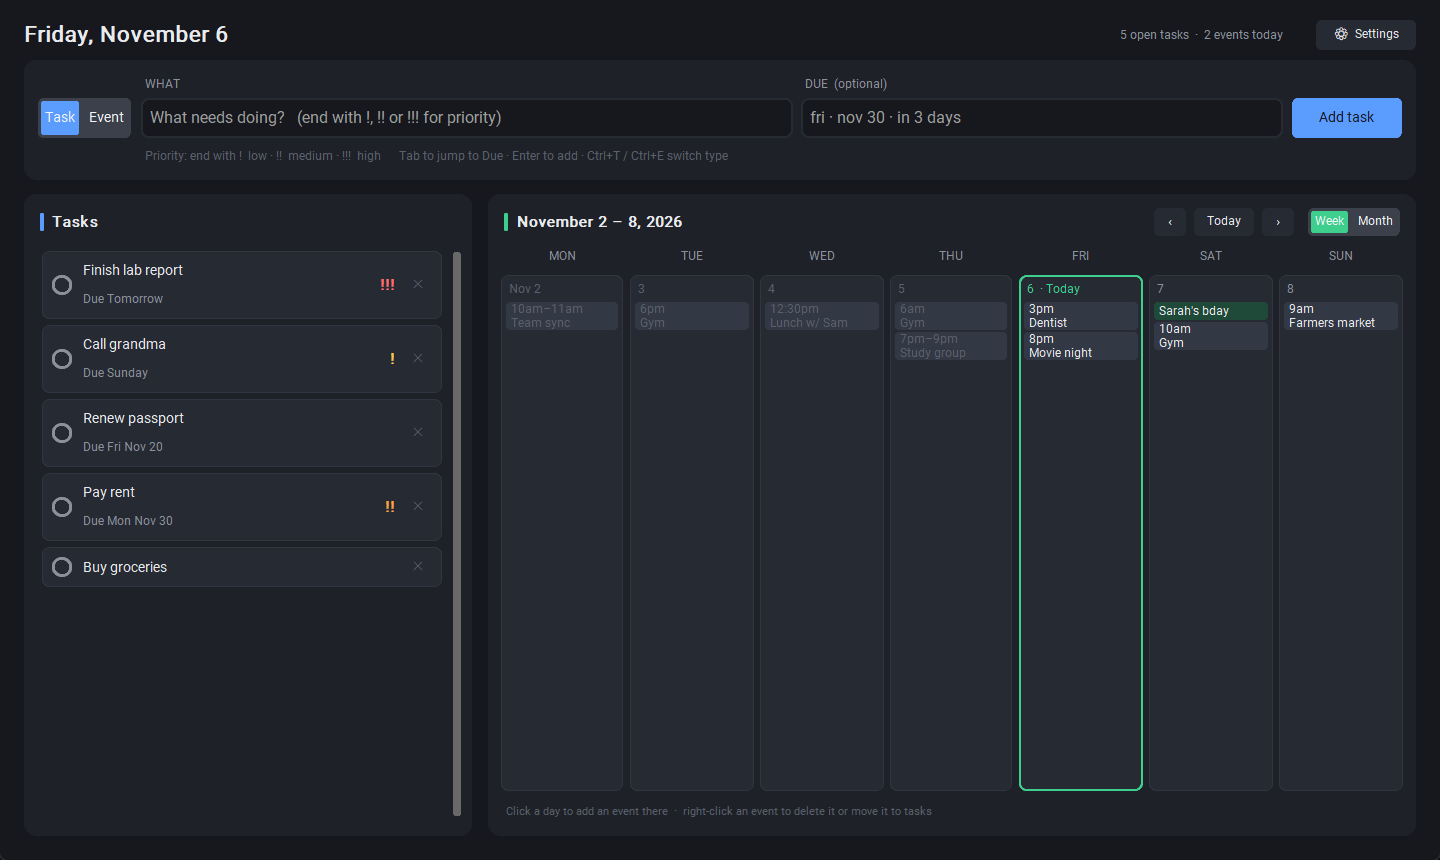
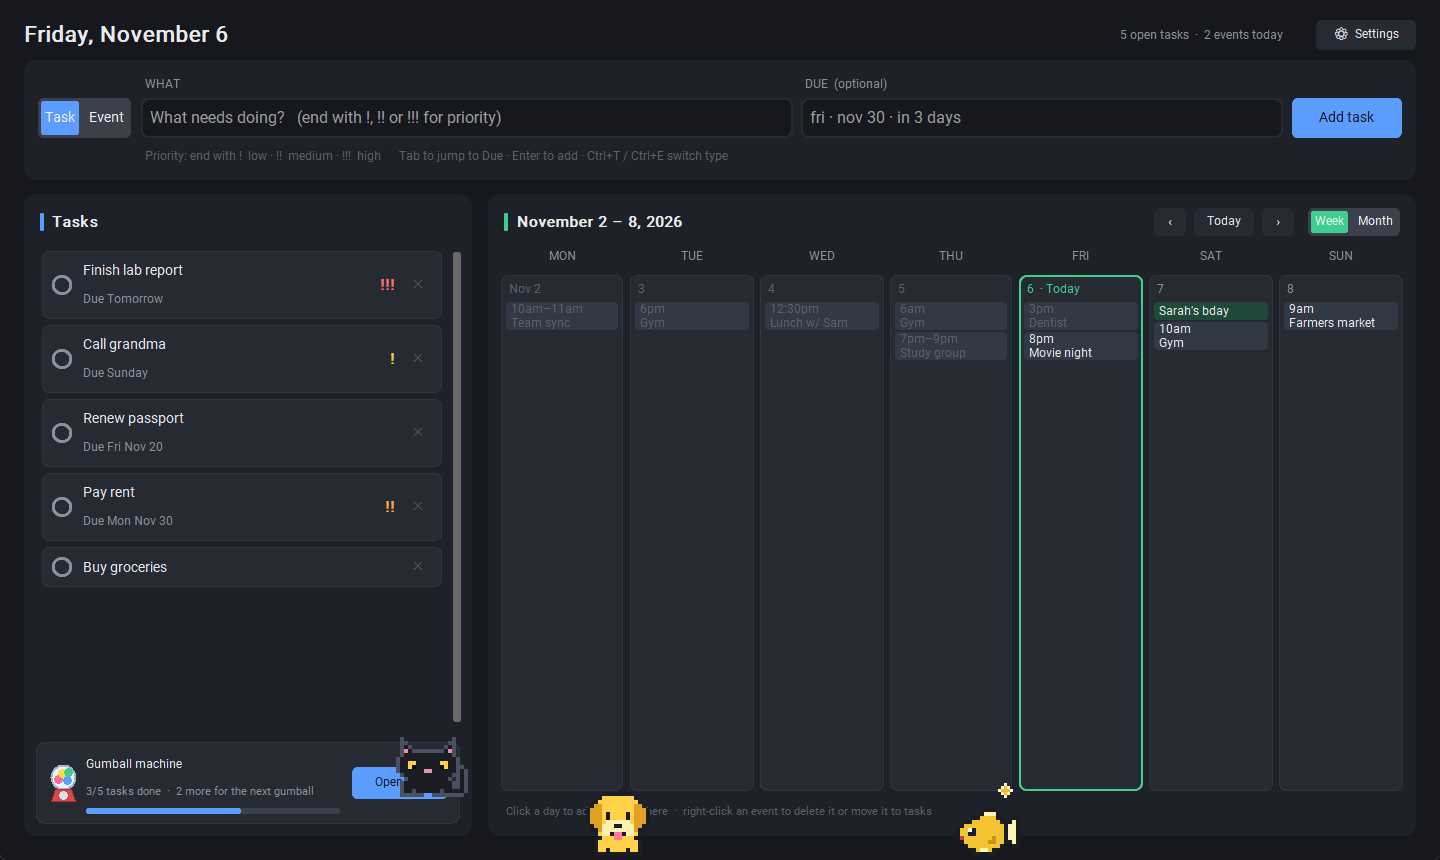
Add a gumball buddies section to the homepage
Explains how finished tasks earn gumballs, shows the machine, a reveal
and the collection, lists all 10 sprites with rarities and odds, and
illustrates star merging and trading up. Also refreshes the main
screenshot (now with buddies), adds a feature card and a nav link.

diff --git a/index.html b/index.html
@@ -4,7 +4,7 @@
   <meta charset="utf-8">
   <meta name="viewport" content="width=device-width, initial-scale=1">
   <title>OnTrack: Tasks & Calendar</title>
-  <meta name="description" content="OnTrack is a free Windows app for tasks and events. Type in plain English, see your week at a glance, and optionally sync events with Google Calendar.">
+  <meta name="description" content="OnTrack is a free Windows app for tasks and events. Type in plain English, see your week at a glance, and optionally sync events with Google Calendar. Finished tasks earn gumballs with collectible pixel buddies.">
   <link rel="icon" href="assets/favicon.png">
   <link rel="stylesheet" href="style.css">
 </head>
@@ -14,6 +14,7 @@
       <a class="brand" href="./"><img src="assets/icon-120.png" alt="">OnTrack</a>
       <nav>
         <a href="#features">Features</a>
+        <a href="#gumballs">Gumballs</a>
         <a href="#google">Google Calendar</a>
         <a href="privacy.html">Privacy</a>
       </nav>
@@ -31,7 +32,7 @@
       </section>
 
       <img class="shot" src="assets/screenshot.png" width="1440" height="860"
-           alt="OnTrack showing a task list on the left and a weekly calendar of events on the right">
+           alt="OnTrack showing a task list on the left, a weekly calendar on the right, and pixel buddies hopping along the bottom">
 
       <section id="features">
         <h2>What it does</h2>
@@ -57,10 +58,46 @@
             <p>Everything is saved in a file on your computer. There's no OnTrack account and no OnTrack server.</p>
           </div>
           <div class="card">
+            <h3>Gumball buddies</h3>
+            <p>Every 5 finished tasks earns a gumball with a collectible pixel pet inside. Buddies hop around your window while you work.</p>
+          </div>
+          <div class="card">
             <h3>Themes</h3>
             <p>Dark, Warm or Light, plus import and export of standard .ics calendar files.</p>
           </div>
         </div>
+      </section>
+
+      <section id="gumballs">
+        <h2>Finish tasks, earn gumballs</h2>
+        <p class="lead">Every 5 tasks you check off earns a gumball. Grab the crank, give it a turn, and out pops a pixel buddy that hops along the bottom of your OnTrack window. Click a buddy and it jumps with a little heart. Your first gumball is free.</p>
+        <div class="gb-shots">
+          <figure><a href="assets/gb-machine.png"><img src="assets/gb-machine.png" width="560" height="700" alt="The gumball machine, with a crank to turn"></a><figcaption>Turn the crank</figcaption></figure>
+          <figure><a href="assets/gb-reveal.png"><img src="assets/gb-reveal.png" width="560" height="700" alt="A new Epic Axolotl revealed from a gumball"></a><figcaption>See who's inside</figcaption></figure>
+          <figure><a href="assets/gb-collection.png"><img src="assets/gb-collection.png" width="560" height="700" alt="The collection: 10 sprites with rarities and stars"></a><figcaption>Fill your collection</figcaption></figure>
+        </div>
+
+        <h3>Collect all 10</h3>
+        <ul class="roster">
+          <li class="sprite basic"><img class="px" src="assets/sprites/frog-1.png" width="64" height="52" alt="Frog"><b>Frog</b><span>Basic</span></li>
+          <li class="sprite basic"><img class="px" src="assets/sprites/duck-1.png" width="64" height="60" alt="Duck"><b>Duck</b><span>Basic</span></li>
+          <li class="sprite basic"><img class="px" src="assets/sprites/mouse-1.png" width="64" height="60" alt="Mouse"><b>Mouse</b><span>Basic</span></li>
+          <li class="sprite basic"><img class="px" src="assets/sprites/goldfish-1.png" width="64" height="48" alt="Goldfish"><b>Goldfish</b><span>Basic</span></li>
+          <li class="sprite rare"><img class="px" src="assets/sprites/dragon-1.png" width="64" height="60" alt="Tiny Dragon"><b>Tiny Dragon</b><span>Rare</span></li>
+          <li class="sprite rare"><img class="px" src="assets/sprites/ghost-1.png" width="64" height="56" alt="Ghost"><b>Ghost</b><span>Rare</span></li>
+          <li class="sprite rare"><img class="px" src="assets/sprites/fox-1.png" width="64" height="60" alt="Fox"><b>Fox</b><span>Rare</span></li>
+          <li class="sprite epic"><img class="px" src="assets/sprites/axolotl-1.png" width="64" height="60" alt="Axolotl"><b>Axolotl</b><span>Epic</span></li>
+          <li class="sprite epic"><img class="px" src="assets/sprites/retriever-1.png" width="64" height="64" alt="Golden Retriever"><b>Golden Retriever</b><span>Epic</span></li>
+          <li class="sprite legendary"><img class="px" src="assets/sprites/cat-1.png" width="72" height="60" alt="Black Cat"><b>Black Cat</b><span>Legendary</span></li>
+        </ul>
+        <p class="odds"><span class="basic">Basic 60%</span> · <span class="rare">Rare 28%</span> · <span class="epic">Epic 10%</span> · <span class="legendary">Legendary 2%</span></p>
+
+        <h3>Stars and trading up</h3>
+        <div class="merge">
+          <div class="step"><img class="px" src="assets/sprites/fox-1.png" width="48" height="45" alt="1-star Fox"><span>+</span><img class="px" src="assets/sprites/fox-1.png" width="48" height="45" alt="1-star Fox"><span>→</span><img class="px" src="assets/sprites/fox-2.png" width="48" height="45" alt="2-star Fox"><em>★★☆</em></div>
+          <div class="step"><img class="px" src="assets/sprites/fox-2.png" width="48" height="45" alt="2-star Fox"><span>+</span><img class="px" src="assets/sprites/fox-2.png" width="48" height="45" alt="2-star Fox"><span>→</span><img class="px" src="assets/sprites/fox-3.png" width="48" height="45" alt="3-star Fox"><em>★★★</em></div>
+        </div>
+        <p class="prose">Every sprite comes out at 1★. Two of the same star level merge into the next, and each star unlocks new colours. Once you have a 3★, any more count as extras: collect 5 extras in one rarity and trade them for a random sprite of the next rarity. Choose up to three buddies to show on screen (or none) in Settings.</p>
       </section>
 
       <section id="google" class="prose">

diff --git a/style.css b/style.css
@@ -78,3 +78,39 @@ footer a { color: var(--muted); }
   .hero .logo { width: 110px; order: -1; }
   .top nav a { margin-left: 12px; }
 }
+
+/* gumball section */
+:root { --basic: #6b7480; --rare: #2f6fdb; --epic: #8a4fe0; --legendary: #a8730a; }
+@media (prefers-color-scheme: dark) {
+  :root { --basic: #9aa3ad; --rare: #4c8dff; --epic: #a970ff; --legendary: #f5b642; }
+}
+#gumballs { margin-bottom: 48px; }
+#gumballs h3 { font-size: 20px; margin: 36px 0 14px; }
+.lead { font-size: 17px; color: var(--muted); max-width: 44em; margin: 0 0 20px; }
+.gb-shots { display: grid; grid-template-columns: repeat(3, minmax(0, 1fr)); gap: 16px; }
+.gb-shots figure { margin: 0; }
+.gb-shots img { border-radius: 12px; border: 1px solid var(--line); box-shadow: 0 8px 28px rgba(0,0,0,.16); }
+.gb-shots figcaption { text-align: center; color: var(--muted); font-size: 14px; margin-top: 8px; }
+.px { image-rendering: pixelated; image-rendering: crisp-edges; }
+.roster { list-style: none; padding: 0; margin: 0; display: grid; grid-template-columns: repeat(5, minmax(0, 1fr)); gap: 12px; }
+@media (max-width: 760px) { .roster { grid-template-columns: repeat(auto-fill, minmax(120px, 1fr)); } }
+.sprite { background: var(--card); border: 1px solid var(--line); border-radius: 12px; padding: 16px 10px 12px;
+          display: flex; flex-direction: column; align-items: center; text-align: center; gap: 4px; }
+.sprite .px { height: 64px; width: auto; margin-bottom: 8px; }
+.sprite b { font-size: 15px; color: var(--text); }
+.sprite span { font-size: 13px; font-weight: 600; }
+.sprite.legendary { border-color: var(--legendary); }
+.basic { color: var(--basic); } .rare { color: var(--rare); } .epic { color: var(--epic); } .legendary span, span.legendary { color: var(--legendary); }
+.sprite.rare span { color: var(--rare); } .sprite.epic span { color: var(--epic); } .sprite.basic span { color: var(--basic); }
+.odds { color: var(--muted); font-size: 14px; font-weight: 600; margin: 12px 0 0; }
+.merge { display: flex; flex-wrap: wrap; gap: 12px 40px; margin-bottom: 14px; }
+.merge .step { display: flex; align-items: center; gap: 10px; background: var(--card); border: 1px solid var(--line);
+               border-radius: 12px; padding: 12px 16px; }
+.merge .px { height: 45px; width: auto; }
+.merge span { color: var(--muted); font-size: 20px; }
+.merge em { font-style: normal; color: #e0a220; font-size: 15px; margin-left: 4px; }
+@media (max-width: 640px) {
+  .gb-shots { grid-template-columns: minmax(0, 1fr); max-width: 360px; margin: 0 auto; }
+  .merge .step { gap: 6px; padding: 10px 12px; }
+  .merge .px { height: 36px; }
+}
